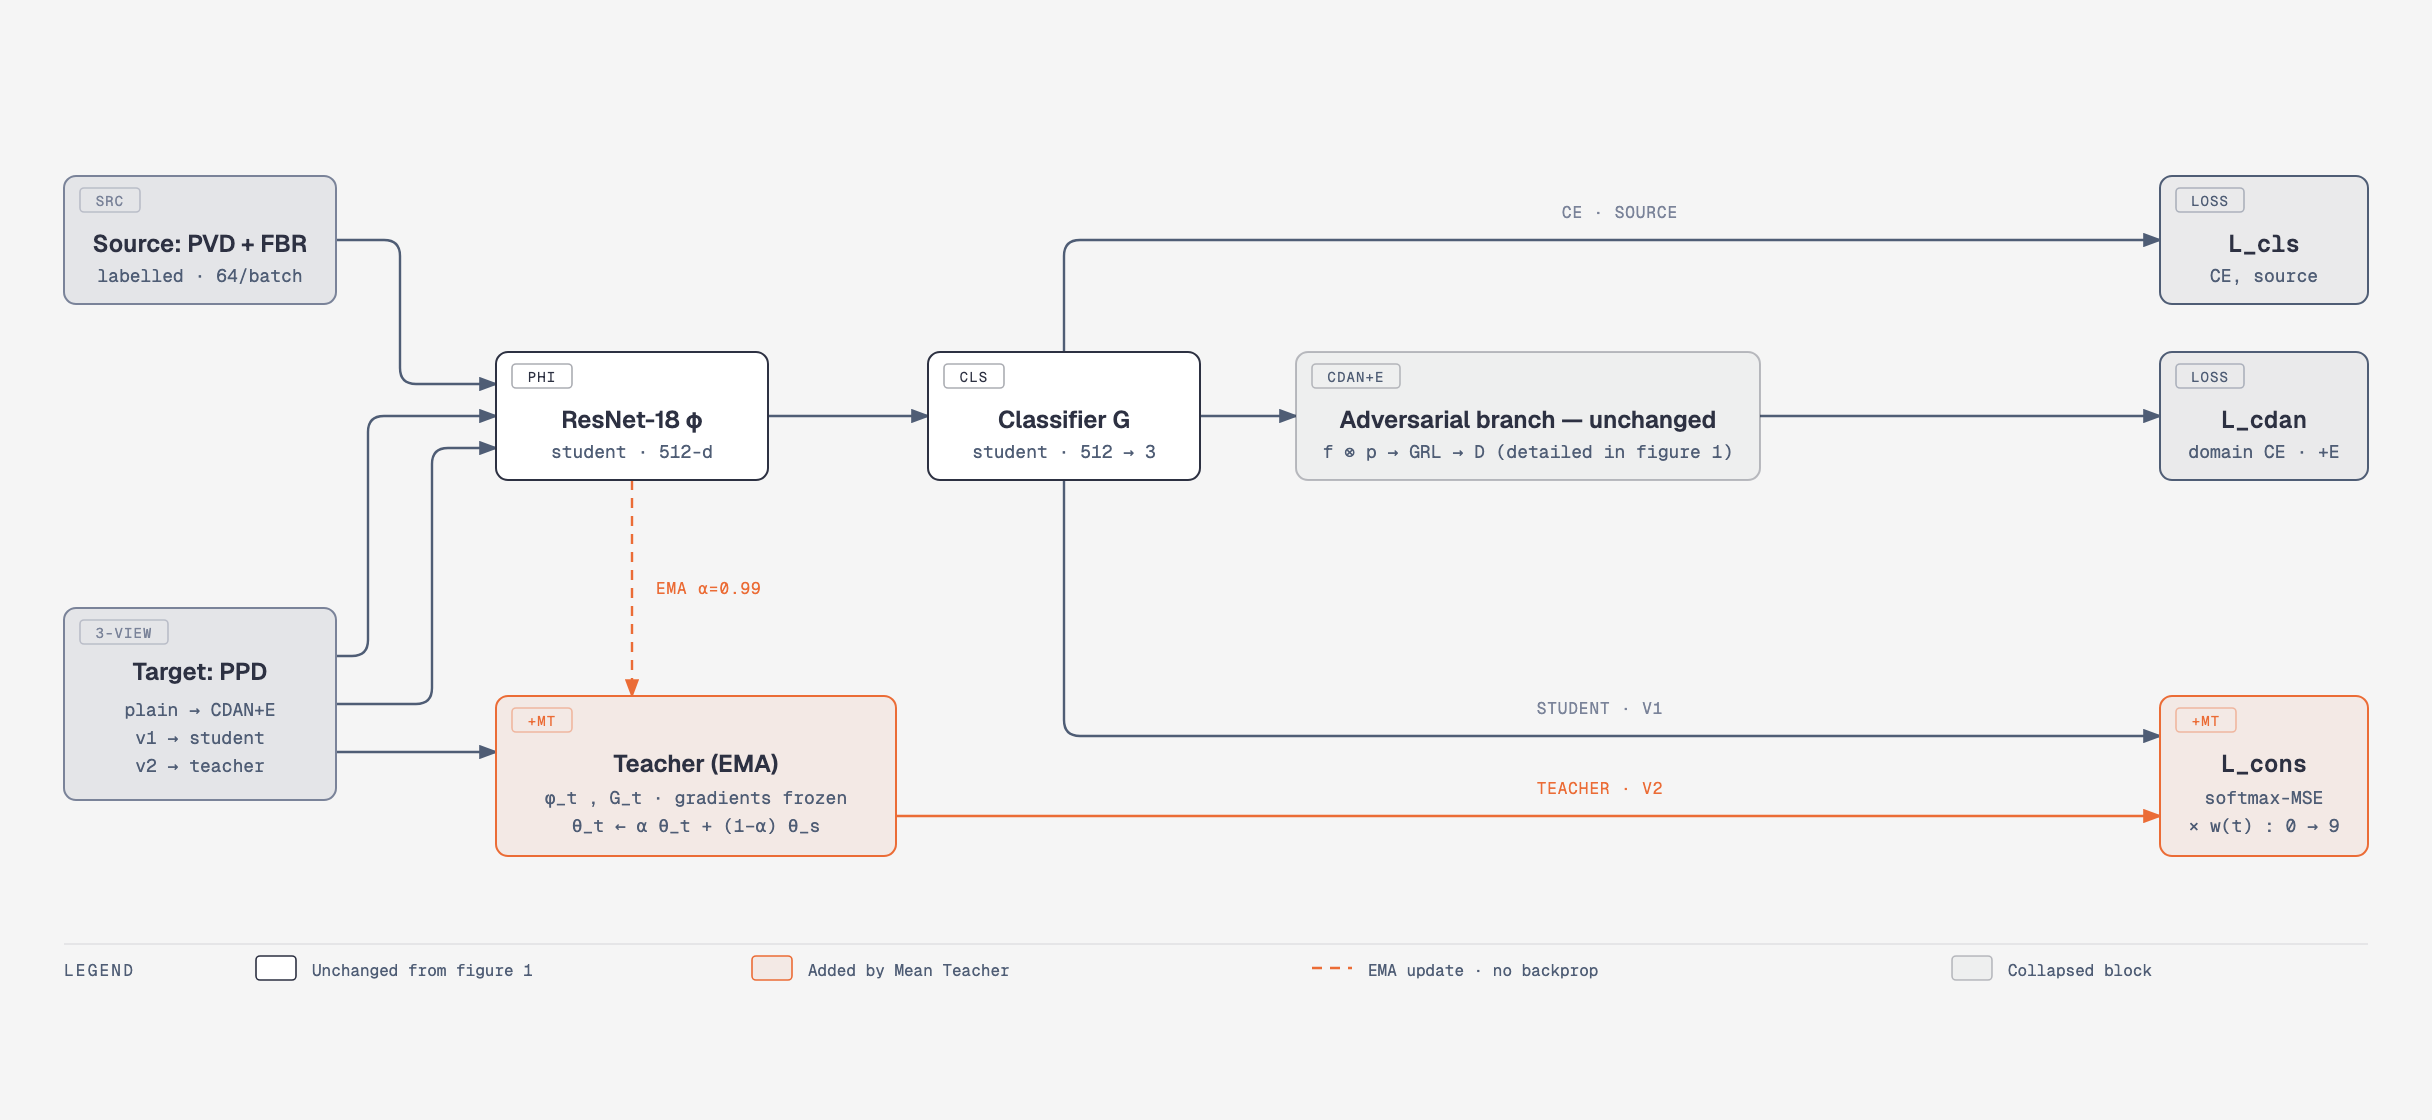
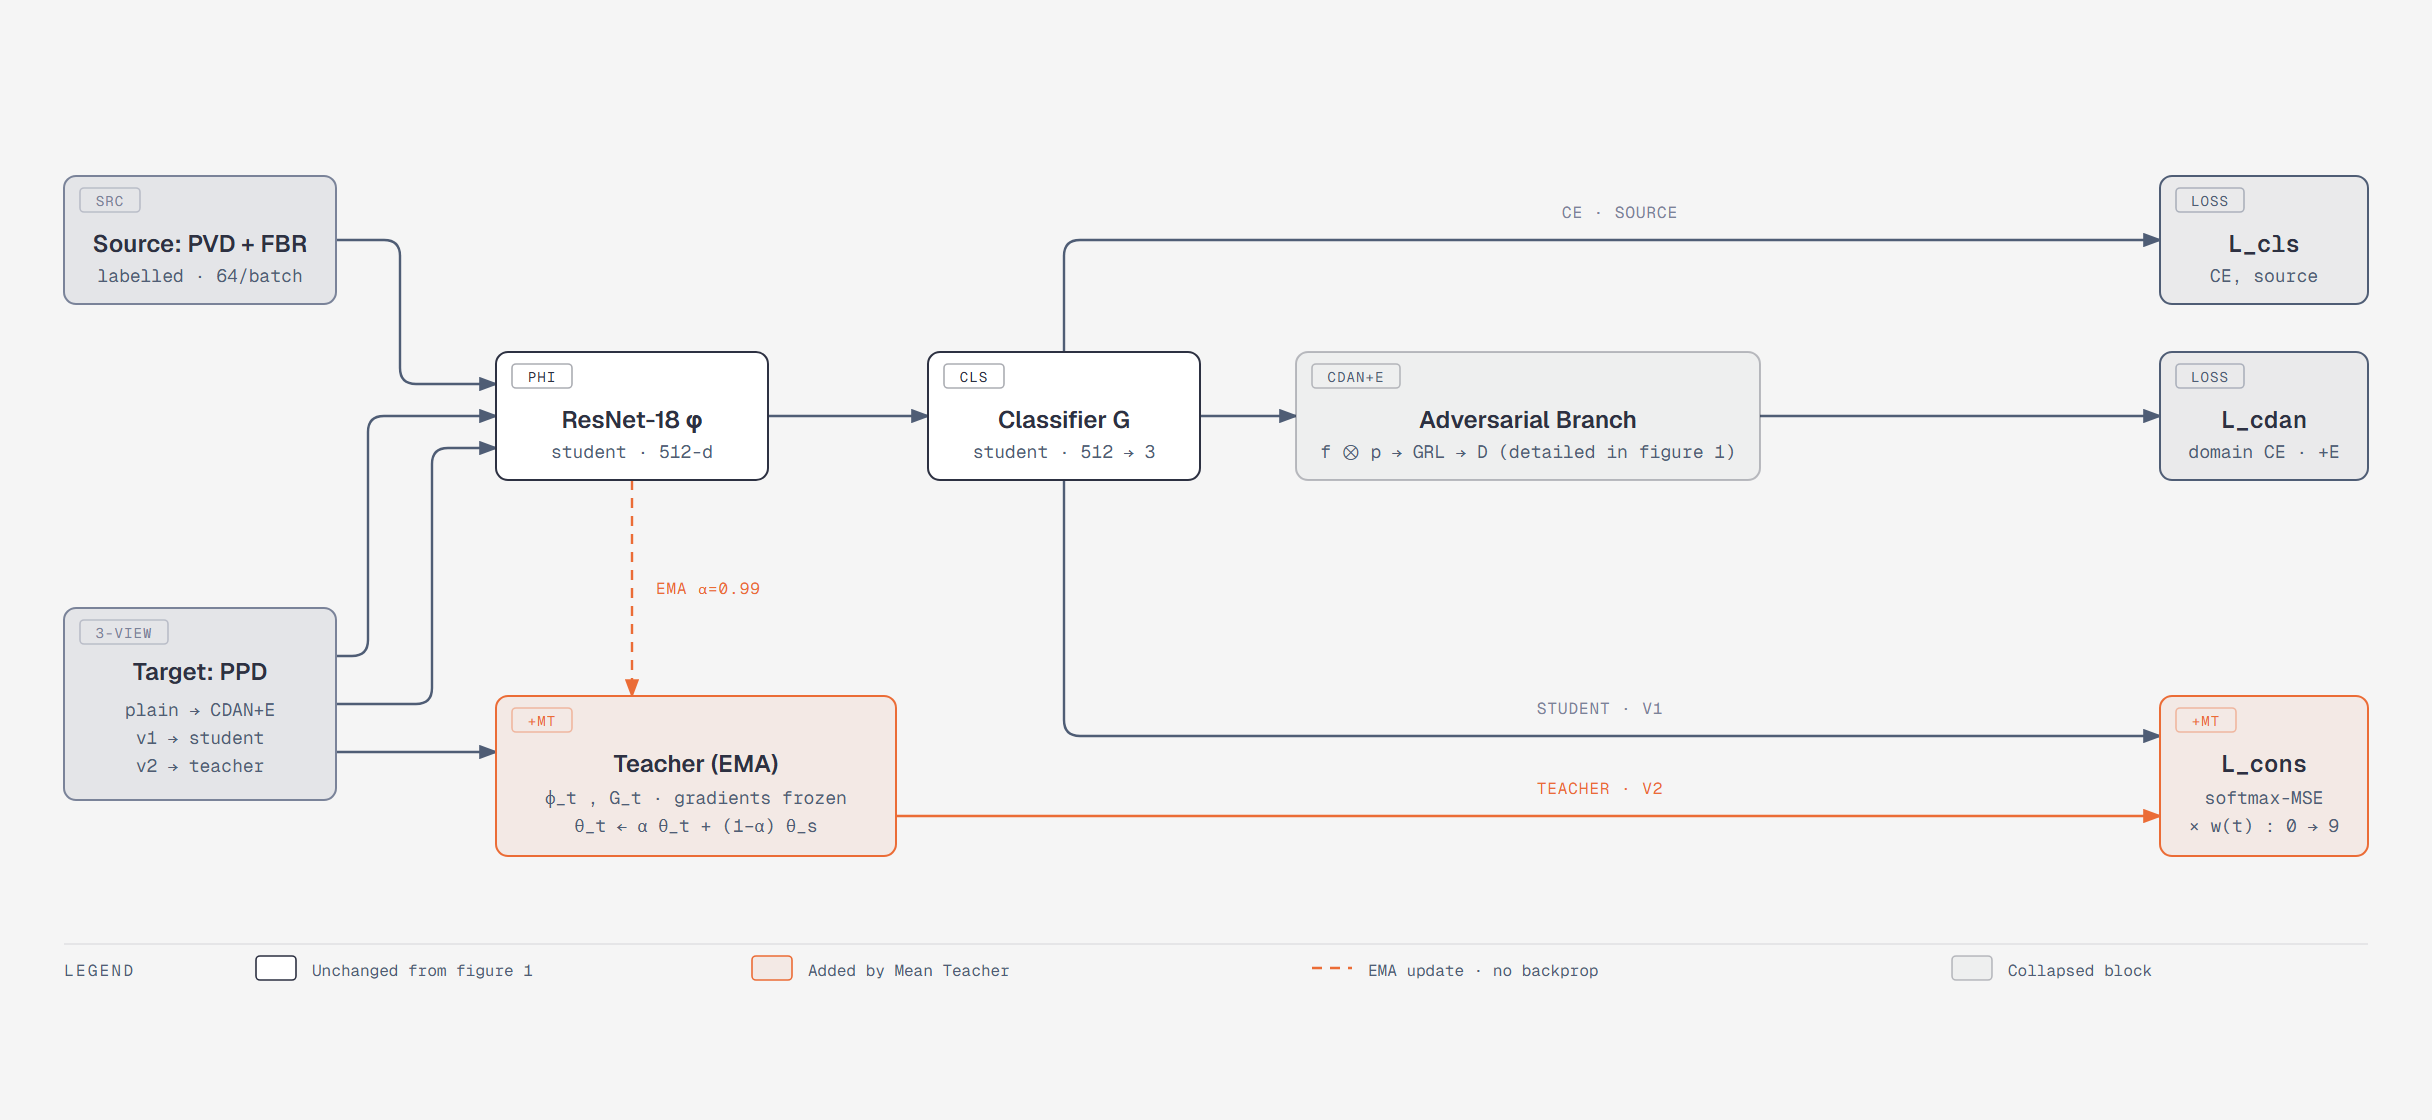
fix: update text in pipeline figures for clarity

diff --git a/figures/pipeline-cdane-vs-mt.html b/figures/pipeline-cdane-vs-mt.html
@@ -396,7 +396,7 @@
           <rect x="648" y="176" width="232" height="64" rx="6" fill="rgba(45,49,66,0.03)" stroke="rgba(45,49,66,0.30)" stroke-width="1"/>
           <rect x="656" y="182" width="44" height="12" rx="2" fill="transparent" stroke="rgba(45,49,66,0.30)" stroke-width="0.8"/>
           <text x="678" y="191" fill="#4f5d75" font-size="7" font-family="'Geist Mono', monospace" text-anchor="middle" letter-spacing="0.08em">CDAN+E</text>
-          <text x="764" y="214" fill="#2d3142" font-size="12" font-weight="600" font-family="'Geist', 'Be Vietnam Pro', sans-serif" text-anchor="middle">Adversarial branch — unchanged</text>
+          <text x="764" y="214" fill="#2d3142" font-size="12" font-weight="600" font-family="'Geist', 'Be Vietnam Pro', sans-serif" text-anchor="middle">Adversarial Branch</text>
           <text x="764" y="229" fill="#4f5d75" font-size="9" font-family="'Geist Mono', 'Be Vietnam Pro', monospace" text-anchor="middle">f ⊗ p → GRL → D  (detailed in figure 1)</text>
 
           <!-- TEACHER (FOCAL, mới) -->
